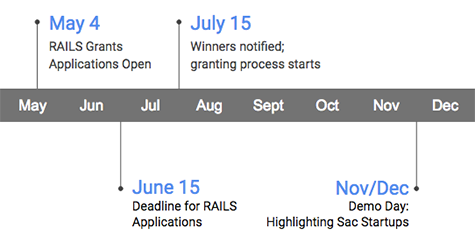
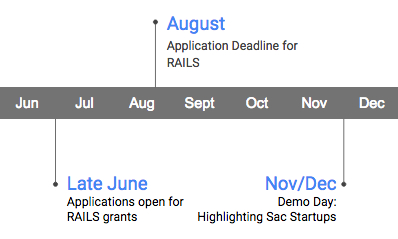
updated timeline and copy

diff --git a/index.html b/index.html
@@ -174,7 +174,7 @@
 
 
         <div class="description">
-          <p>The City has committed <b>$1.5M </b> in grants for groups that drive acceleration, innovation & leadership for startups.<br>
+          <p>The City is committing up to <b>$1.5M </b> in grants for groups that drive acceleration, innovation & leadership for startups.<br>
           <br></p>
 
 
@@ -470,6 +470,8 @@
         <h3>Here's what to expect if you choose to apply:<br>
         (which you should)</h3>
 		
+		<p><strong>Applications will open up in late June. In the meantime, share your idea to get the process started. We'll follow up with you as soon as the formal process is live.</strong></p>
+		
 		<div class="canvas-img">
 			<canvas id="myCanvas" width="475px" height="243px"></canvas>
 			<script>
@@ -486,8 +488,7 @@
 		</div>
 		
         <p>Applicants will be screened by the Mayor's Office, City Council, and
-        an external board of experts in technology, innovation, and business.
-        Winners will be notified by July 15.</p>
+        an external board of experts in technology, innovation, and business.</p>
 
 
         <div class="usa-alert usa-alert-info">
